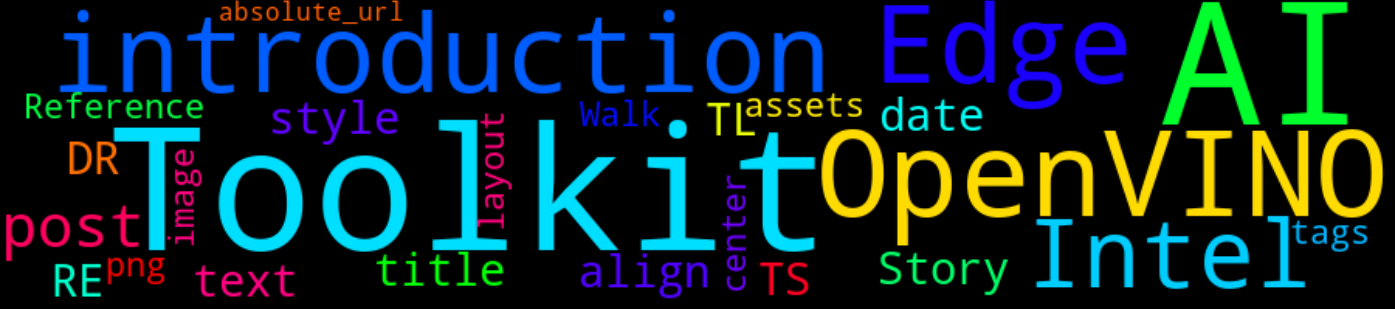
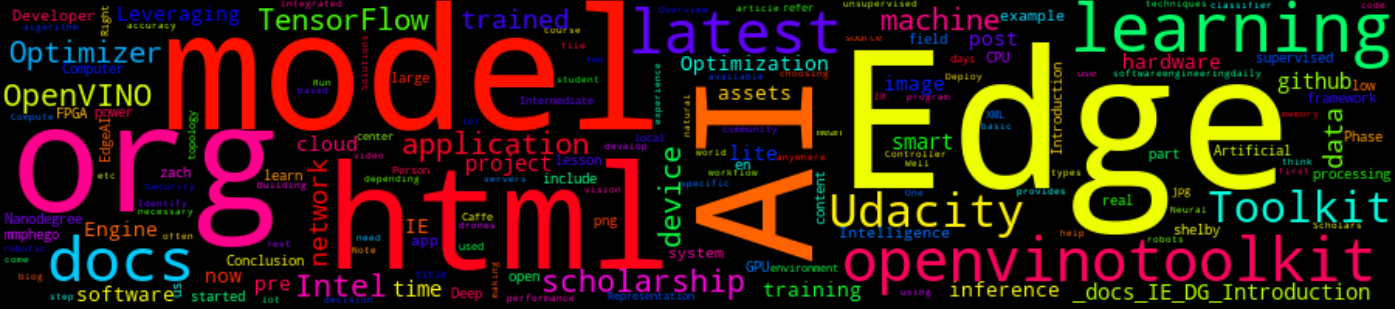
Better tags

diff --git a/_posts/2020-05-08-My-Experience-And-What-I-Learned-From-Udacity-Cloud-Developer-Nanodegree.md b/_posts/2020-05-08-My-Experience-And-What-I-Learned-From-Udacity-Cloud-Developer-Nanodegree.md
@@ -3,7 +3,14 @@ layout: post
 title: "My Experience And What I Learned From Udacity Cloud Developer Nanodegree"
 date: 2020-05-08 04:20:48.000000000 +02:00
 tags:
-
+    - Udacity
+    - Cloud Developer
+    - AWS
+    - NodeJS
+    - Docker
+    - Kubernetes
+    - Travis
+    - Serverless
 ---
 # My Experience And What I Learned From Udacity Cloud Developer Nanodegree.
 

diff --git a/_posts/2020-04-25-How-to-upgrade-from-Ubuntu-18.04-to-20.04.md b/_posts/2020-04-25-How-to-upgrade-from-Ubuntu-18.04-to-20.04.md
@@ -3,7 +3,8 @@ layout: post
 title: "How To Upgrade From Ubuntu 18.04 To 20.04"
 date: 2020-04-25 10:43:12.000000000 +02:00
 tags:
-
+    - Tips/Tricks
+    - Ubuntu
 ---
 # How To Upgrade From Ubuntu 18.04 To 20.04
 

diff --git a/_posts/2019-12-15-My-Experience-And-What-I-Learned-From-Udacity-AI-Programming-With-Python-Nano-Degree-Part-1.md b/_posts/2019-12-15-My-Experience-And-What-I-Learned-From-Udacity-AI-Programming-With-Python-Nano-Degree-Part-1.md
@@ -7,6 +7,7 @@ tags:
 - Machine Learning
 - AI
 - Pytorch
+- Udacity
 ---
 # My Experience And What I Learned From Udacity AI Programming With Python Nano-Degree: Part 1.
 

diff --git a/_posts/2020-01-17-My-Experience-And-What-I-Learned-From-Udacity-AI-Programming-With-Python-Nano-Degree-Part-2.md b/_posts/2020-01-17-My-Experience-And-What-I-Learned-From-Udacity-AI-Programming-With-Python-Nano-Degree-Part-2.md
@@ -7,6 +7,7 @@ tags:
 - Machine Learning
 - AI
 - Pytorch
+- Udacity
 ---
 # My Experience And What I Learned From Udacity AI Programming With Python Nano-Degree: Part 2.
 

diff --git a/_posts/2020-03-21-How-I-am-deleting-old-tweets-automagically.md b/_posts/2020-03-21-How-I-am-deleting-old-tweets-automagically.md
@@ -5,6 +5,7 @@ date: 2020-03-21 20:44:14.000000000 +02:00
 tags:
 - Tips/Tricks
 - Social Media
+- Twitter
 - Docker
 - Travis-CI
 ---
